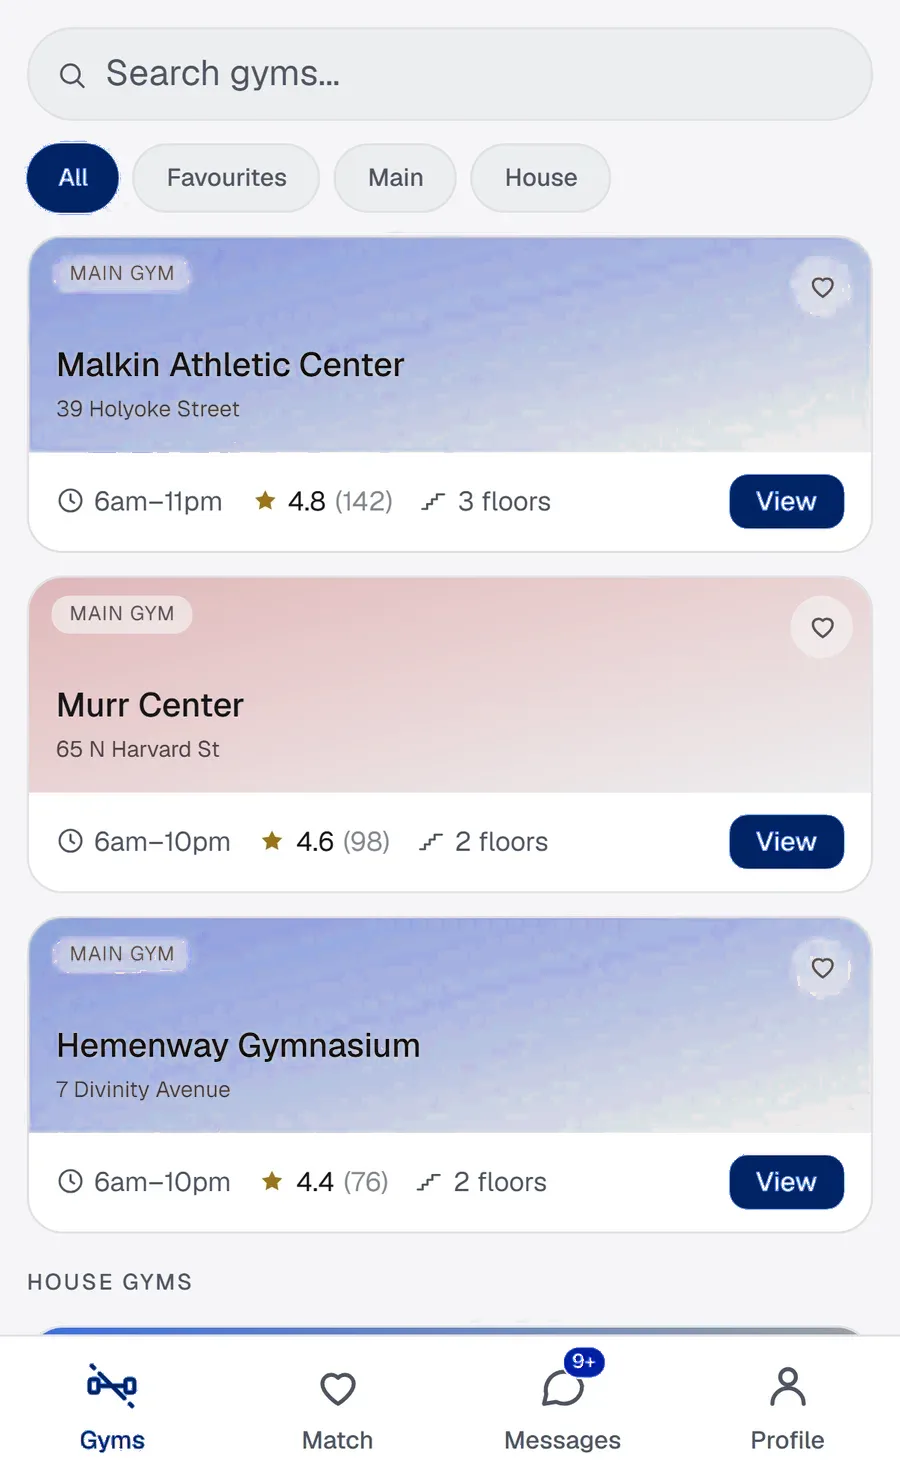
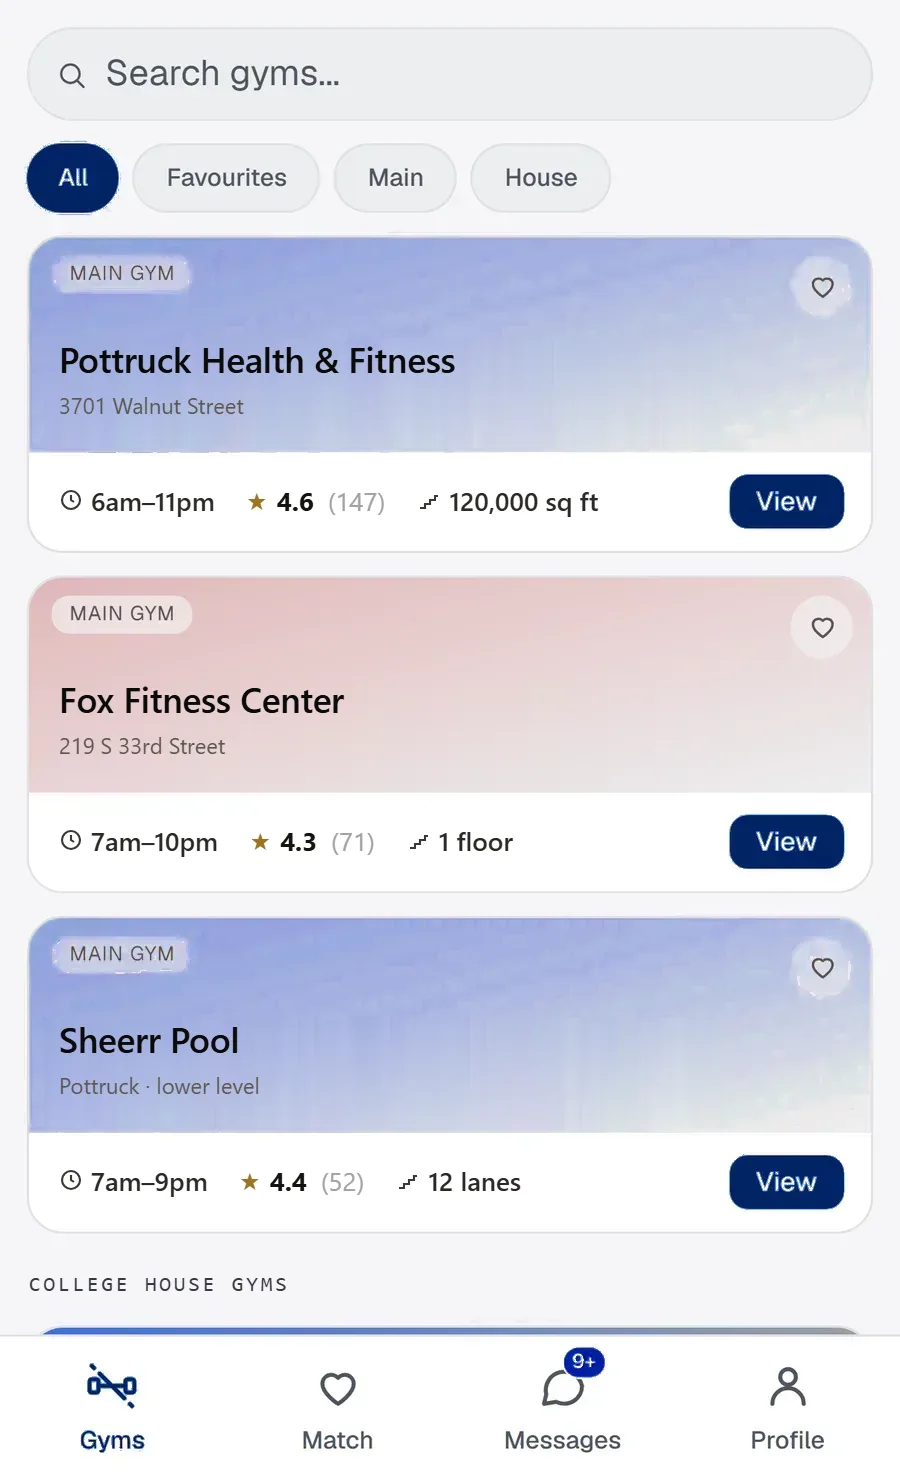
feat(landing): each school's own gyms in the phone; blades at half shaft; the letter switches twice as fast; both closers fit a phone screen
Campus Colours' phone showed Harvard's gyms in every school's colours. Now
each school shows ITS gyms: scripts/landing/patch-gyms.mjs wipes Malkin /
Murr / Hemenway off the recoloured real capture (the name and address rows
on the card's colour wash are rebuilt column by column from the wash above
and below; the hours / rating / size line and the section label are painted
over) and composites Chrome-rendered overlays with the school's three real
gyms — Payne Whitney, Dillon, Pottruck, Nelson, Dodge, Helen Newman,
Lewinstein… — in the same places, sizes and colours (data in
scripts/landing/school-gyms.mjs, the same list preview-gyms8.mjs renders).
Calibrated against the original Harvard card first. Written to both
scripts/landing/recolored/ and public/landing/closers/.

Blade Lock: the phone's top is now 94px below the wheel's centre — halfway
between the piece's 117 (too much shaft, the owner said) and the first
port's 74 (too little). Campus Colours cycles every 1.3s, half the piece's
pace, and starts 850ms after landing instead of 1700 — the wait for Yale
was too long.

On phones (owner's screenshots): Blade Lock's wheel is scaled to the width it
has and fans on a tighter radius, so all eight blades stand inside the screen
instead of running off it, one screen tall with the crew's name under the
phone; Campus Colours fits words, letter, phone and dots in one screen
(smaller phone, tighter gaps). Desktop is untouched — the scale only applies
[…]

diff --git a/components/landing/BladeLock.tsx b/components/landing/BladeLock.tsx
@@ -48,7 +48,7 @@ import { BLADE_PATH, OAR_ART, schools, rgba } from "@/lib/landingSchools";
   Harvard at the front; clicking a blade jumps straight to it.
 
   Like the piece it is one screen tall with the content centred; the stage is
-  a touch shorter than the piece's (600 vs 660) so the whole thing, label
+  a touch shorter than the piece's (580 vs 660) so the whole thing, label
   included, fits a 900px laptop without the piece's page-zoom. The phone is
   the piece's 272px. Below ~700px wide the outermost oars run off the sides,
   exactly as they do in the piece — the phone stays readable, the wheel is
@@ -58,12 +58,13 @@ import { BLADE_PATH, OAR_ART, schools, rgba } from "@/lib/landingSchools";
 const PERIOD_MS = 2600;
 const STEP = 45; // degrees between oars
 const RADIUS = 295;
-const STAGE_H = 600;
+const STAGE_H = 580;
 // The wheel's centre, from the top of the stage. With the phone (486 tall)
-// on the stage floor its top is 114px below the centre — the piece's own
-// offset (117) — so the WHOLE blade and a hand of shaft stand clear above
-// the phone, even for the oar directly behind it.
-const WHEEL_TOP = 200;
+// on the stage floor its top is 94px below the centre, so the whole blade
+// and a little of the shaft stand clear above the phone, even for the oar
+// directly behind it — halfway between the piece's offset (117) and the
+// first port's (74), which the owner judged too much and too little shaft.
+const WHEEL_TOP = 210;
 const OAR_W = 78;
 const OAR_H = 468;
 // the small formation: the wheel compressed toward its centre (F), smaller (K)
@@ -152,6 +153,12 @@ export default function BladeLock({
   const [phone, setPhone] = useState<"hide" | "pre" | "in">("in");
   const [wordsPre, setWordsPre] = useState(false);
   const [labelPre, setLabelPre] = useState(false);
+  // On a phone the wheel is scaled to the width it has: everything (phone,
+  // stage, oars) shrinks a little, and the oars fan on a tighter radius so
+  // all eight blades stand inside the screen instead of running off it.
+  // Desktop is untouched (zoom = 1, the piece's 295px radius).
+  const [zoom, setZoom] = useState(1);
+  const geo = useRef({ sc: 1, r: RADIUS });
 
   const stick = useRef<HTMLDivElement>(null);
   const stage = useRef<HTMLDivElement>(null);
@@ -179,11 +186,12 @@ export default function BladeLock({
     const now = performance.now();
     const k = glideAt(park.current, now); // 0 free … 1 parked
     const m = glideAt(form.current, now); // 0 spread … 1 formation
+    const { sc, r } = geo.current;
     // the phone, in stage coordinates relative to the wheel's centre
     const sr = stage.current?.getBoundingClientRect();
     const pr = phoneEl.current?.getBoundingClientRect();
-    const phoneTop = sr && pr ? pr.top - sr.top - WHEEL_TOP : STAGE_H - 486 - WHEEL_TOP;
-    const phoneMidY = sr && pr ? phoneTop + pr.height / 2 : phoneTop + 243;
+    const phoneTop = sr && pr ? pr.top - sr.top - WHEEL_TOP * sc : (STAGE_H - 486 - WHEEL_TOP) * sc;
+    const phoneMidY = sr && pr ? phoneTop + pr.height / 2 : phoneTop + 243 * sc;
 
     // first pass: the wheel
     const full: { x: number; y: number; s: number; d: number }[] = [];
@@ -193,9 +201,9 @@ export default function BladeLock({
       const a = ((i * STEP + rot.current) * Math.PI) / 180;
       const d = Math.cos(a); // 1 = front, -1 = back
       full.push({
-        x: Math.sin(a) * RADIUS,
-        y: -(1 - d) * 20,
-        s: 0.5 + 0.58 * Math.pow((d + 1) / 2, 1.35),
+        x: Math.sin(a) * r,
+        y: -(1 - d) * 20 * sc,
+        s: (0.5 + 0.58 * Math.pow((d + 1) / 2, 1.35)) * sc,
         d,
       });
       if (d > bestD) {
@@ -209,7 +217,7 @@ export default function BladeLock({
     full.forEach((o) => {
       minTop = Math.min(minTop, FORM_F * o.y - (OAR_H * o.s * FORM_K) / 2);
     });
-    const dy = phoneTop - PEEK - minTop;
+    const dy = phoneTop - PEEK * sc - minTop;
 
     for (let i = 0; i < schools.length; i++) {
       const btn = oars.current[i];
@@ -221,7 +229,7 @@ export default function BladeLock({
       let s = o.s + (o.s * FORM_K - o.s) * m;
       x += (0 - x) * k;
       y += (phoneMidY - y) * k;
-      s += (PARK_SCALE - s) * k;
+      s += (PARK_SCALE * sc - s) * k;
       const op = (0.62 + (0.38 * (o.d + 1)) / 2) * (1 - k);
       btn.style.transform = `translate(-50%,-50%) translate(${x.toFixed(1)}px,${y.toFixed(1)}px) scale(${s.toFixed(3)})`;
       btn.style.opacity = op.toFixed(3);
@@ -248,6 +256,23 @@ export default function BladeLock({
   /* First paint, and whenever the wheel is not running: place the oars once. */
   useEffect(() => {
     renderFrame();
+  }, [renderFrame]);
+
+  /* The stage's width decides the scale and the radius (see `zoom` above). */
+  useEffect(() => {
+    const el = stage.current;
+    if (!el) return;
+    const ro = new ResizeObserver(([e]) => {
+      const w = e.contentRect.width;
+      const narrow = w < 700;
+      const s = narrow ? Math.max(0.7, Math.min(1, w / 460)) : 1;
+      const rad = Math.min(RADIUS * s, w / 2 - 45 * s);
+      geo.current = { sc: s, r: rad };
+      setZoom(s);
+      renderFrame();
+    });
+    ro.observe(el);
+    return () => ro.disconnect();
   }, [renderFrame]);
 
   /* The wheel. Turns one oar per PERIOD while free; eases onto the picked
@@ -401,7 +426,7 @@ export default function BladeLock({
         </div>
 
         {/* ── The stage: the wheel of oars, the phone in front of it ── */}
-        <div ref={stage} className="relative w-full max-w-[860px] flex-none" style={{ height: STAGE_H }}>
+        <div ref={stage} className="relative w-full max-w-[860px] flex-none" style={{ height: STAGE_H * zoom }}>
           {schools.map((sc, i) => (
             <button
               key={sc.key}
@@ -413,7 +438,7 @@ export default function BladeLock({
               aria-pressed={held && i === active}
               onClick={() => pick(i)}
               className="absolute left-1/2 cursor-pointer rounded-lg border-0 bg-transparent p-0 opacity-0 will-change-transform focus-visible:outline-2 focus-visible:outline-offset-[3px] focus-visible:outline-l-text"
-              style={{ top: WHEEL_TOP, width: OAR_W, height: OAR_H }}
+              style={{ top: WHEEL_TOP * zoom, width: OAR_W, height: OAR_H }}
             >
               {/* the oar is drawn lying down and stood up here, blade at the top */}
               <span
@@ -427,7 +452,8 @@ export default function BladeLock({
 
           <Phone
             ref={phoneEl}
-            className={`lc-phone absolute bottom-0 left-1/2 z-[100] w-[272px] -translate-x-1/2 ${
+            style={{ width: 272 * zoom }}
+            className={`lc-phone absolute bottom-0 left-1/2 z-[100] -translate-x-1/2 ${
               phone === "hide" ? "lc-hide" : phone === "pre" ? "lc-pre" : ""
             }`}
             data-closer-phone="blades"

diff --git a/components/landing/CampusColours.tsx b/components/landing/CampusColours.tsx
@@ -19,11 +19,14 @@ import { schools, rgba } from "@/lib/landingSchools";
   colours applied inline from lib/landingSchools.ts (content, rule 1's
   exception).
 
-  Inside the phone is the REAL Gyms screen, recoloured per school (the same
-  captures the artifact's closer shows) — not the design's drawn gym list.
-  The Gyms capture carries the app's own tab bar, so none is drawn here.
+  Inside the phone is the REAL Gyms screen, recoloured per school AND showing
+  that school's own gyms — the Harvard capture, recolour-shifted by
+  scripts/landing/recolor-shots.mjs and its three cards rewritten by
+  patch-gyms.mjs (Payne Whitney for Yale, Dillon for Princeton, …). The Gyms
+  capture carries the app's own tab bar, so none is drawn here.
 
-  Behaviour, as the piece: it cycles through the eight schools every 2.6s,
+  Behaviour, as the piece: it cycles through the eight schools (every 1.3s —
+  half the piece's pace, at the owner's request),
   a click on a dot pins that school, and it un-pins once the section has
   scrolled out of view. It opens on Harvard — the colour the story's phone
   was wearing — and resets to Harvard when it leaves.
@@ -37,7 +40,9 @@ import { schools, rgba } from "@/lib/landingSchools";
   and the dots still work.
 */
 
-const PERIOD_MS = 2600;
+// 1.3s per school — half the design piece's 2.6s, at the owner's request:
+// the wait for Yale after landing on Harvard read as too long.
+const PERIOD_MS = 1300;
 type Phase = "hide" | "pre" | "in";
 
 export default function CampusColours({
@@ -124,7 +129,7 @@ export default function CampusColours({
         setLetter("now");
         setWordsPre(false);
       }, 220);
-      later(() => setCycling(true), 1700); // …and only then does it start rotating
+      later(() => setCycling(true), 850); // …and only then does it start rotating
     },
     arriveInPlace: () => {
       // The phone may be hidden waiting for a flight that is not coming: swap
@@ -134,7 +139,7 @@ export default function CampusColours({
       later(() => setPhone("in"), 30);
       later(() => setLetter("in"), 260);
       later(() => setWordsPre(false), 320);
-      later(() => setCycling(true), 1500);
+      later(() => setCycling(true), 750);
     },
     retract: () =>
       new Promise<void>((resolve) => {
@@ -171,11 +176,11 @@ export default function CampusColours({
     >
       <div
         ref={stick}
-        className="lc-stick flex min-h-svh flex-col items-center justify-center overflow-hidden px-6 py-10 sm:px-8"
+        className="lc-stick flex min-h-svh flex-col items-center justify-center overflow-hidden px-6 py-6 sm:px-8 lg:py-10"
       >
         <CloserSplit aside={aside} accent="accent">
         {/* ── The words ── */}
-        <div className={`lc-words mb-11 max-w-[760px] text-center ${wordsPre ? "lc-pre" : ""}`}>
+        <div className={`lc-words mb-6 max-w-[760px] text-center lg:mb-11 ${wordsPre ? "lc-pre" : ""}`}>
           <p className="mb-2.5 font-display text-[clamp(16px,2vw,20px)] text-l-text-2">{copy.leadIn}</p>
           <h2 className="font-display text-[clamp(36px,4.6vw,60px)] font-normal leading-[1.1] tracking-tight text-balance text-l-text">
             {copy.headline}{" "}
@@ -192,10 +197,12 @@ export default function CampusColours({
         </div>
 
         {/* ── Phone beside the letter (letter above the phone below 1024px) ── */}
-        <div className="flex w-full flex-col items-center justify-center gap-10 lg:flex-row lg:gap-[60px]">
+        {/* On a phone the whole piece — words, letter, phone, dots — fits one screen:
+            smaller phone, tighter gaps. Desktop is the piece's own spacing. */}
+        <div className="flex w-full flex-col items-center justify-center gap-5 lg:flex-row lg:gap-[60px]">
           <Phone
             ref={phoneEl}
-            className={`lc-phone relative z-[3] order-2 w-[min(270px,84vw)] flex-none lg:order-1 ${
+            className={`lc-phone relative z-[3] order-2 w-[min(270px,52vw)] flex-none lg:order-1 lg:w-[270px] ${
               phone === "hide" ? "lc-hide" : phone === "pre" ? "lc-pre" : ""
             }`}
             data-closer-phone="campus"
@@ -250,7 +257,7 @@ export default function CampusColours({
               </span>
             </div>
             <div
-              className="relative mt-[26px] font-mono text-[26px] uppercase tracking-[0.2em] transition-colors duration-[600ms] ease-in-out motion-reduce:transition-none"
+              className="relative mt-3 font-mono text-[22px] uppercase tracking-[0.2em] lg:mt-[26px] lg:text-[26px] transition-colors duration-[600ms] ease-in-out motion-reduce:transition-none"
               style={{ color: s.ink }}
             >
               {s.name}
@@ -259,7 +266,7 @@ export default function CampusColours({
         </div>
 
         {/* ── One dot per school ── */}
-        <div className="mt-12 flex items-center justify-center gap-3.5" role="group" aria-label="Choose a university">
+        <div className="mt-7 flex items-center justify-center gap-3.5 lg:mt-12" role="group" aria-label="Choose a university">
           {schools.map((sc, i) => {
             const on = i === idx;
             return (

diff --git a/LANDING.md b/LANDING.md
@@ -103,8 +103,12 @@ port them, not a pattern to copy — and they are now ported (see below).
 not the design pieces' drawn phone screens. The native ports do the same:
 `public/landing/closers/gyms-*.webp` in Campus Colours, `vhome-*.webp` in
 Blade Lock, with the varsity tab bar drawn over the capture (which stops
-above the app's own bar). Regenerate them with `scripts/landing/recolor-shots.mjs`
-and copy from `scripts/landing/recolored/`.
+above the app's own bar). And, since 2026-08-18, the Gyms screen shows **each
+school's own gyms**: `scripts/landing/patch-gyms.mjs` wipes Malkin / Murr /
+Hemenway off the recoloured capture and writes Payne Whitney, Dillon,
+Pottruck… in their place (data: `scripts/landing/school-gyms.mjs`).
+Regenerate: `recolor-shots.mjs`, then `patch-gyms.mjs` (it writes both
+`recolored/` and `public/landing/closers/`).
 
 **One phone frame everywhere.** `components/landing/Phone.tsx` draws the shell,
 status bar, island and gesture bar at the story phone's proportions, in
@@ -112,6 +116,12 @@ container units, so a 270px closer phone and a 300px coach phone are the same
 object and the flight can land on one to the pixel. Restyle the phone there,
 once, and every section follows — but keep the stories' phone the same object
 when they are ported. Its chrome colours are `l-phone-*` tokens.
+
+**Blade Lock's phone sits 94px below the wheel's centre** — halfway between the
+piece's 117 (too much shaft showing, the owner said) and the first port's 74
+(too little): the whole blade and a little shaft stand clear above the phone.
+**Campus Colours cycles every 1.3s**, half the piece's pace, at the owner's
+request.
 
 **Blade Lock's glow is off.** The design piece drop-shadowed the front blade
 in its colour; the artifact removed it (`cb4a72c`), and the native port does

diff --git a/scripts/landing/README.md b/scripts/landing/README.md
@@ -172,6 +172,11 @@ revokes it afterwards — ask for a fresh one, never assume one is lying around.
 > a design bundle's real source, decode the base64 (gzip) entries of its
 > `<script type="__bundler/manifest">` and its `__bundler/template` — the
 > template is an ~20–40KB HTML file with the layout and logic in the clear.
+>
+> **The closers' screens, per school:** `recolor-shots.mjs` recolours the real
+> Harvard captures (`recolored/`), then `patch-gyms.mjs` writes each school's
+> OWN gyms onto the Gyms screen (data in `school-gyms.mjs`) and copies the
+> results to `public/landing/closers/` for the site.
 
 `Blade Lock Light.html` and `UNIsport Campus Colours.html` are **bundled apps**
 from Claude Design — ~130KB of JavaScript each that mount into `document.body`
